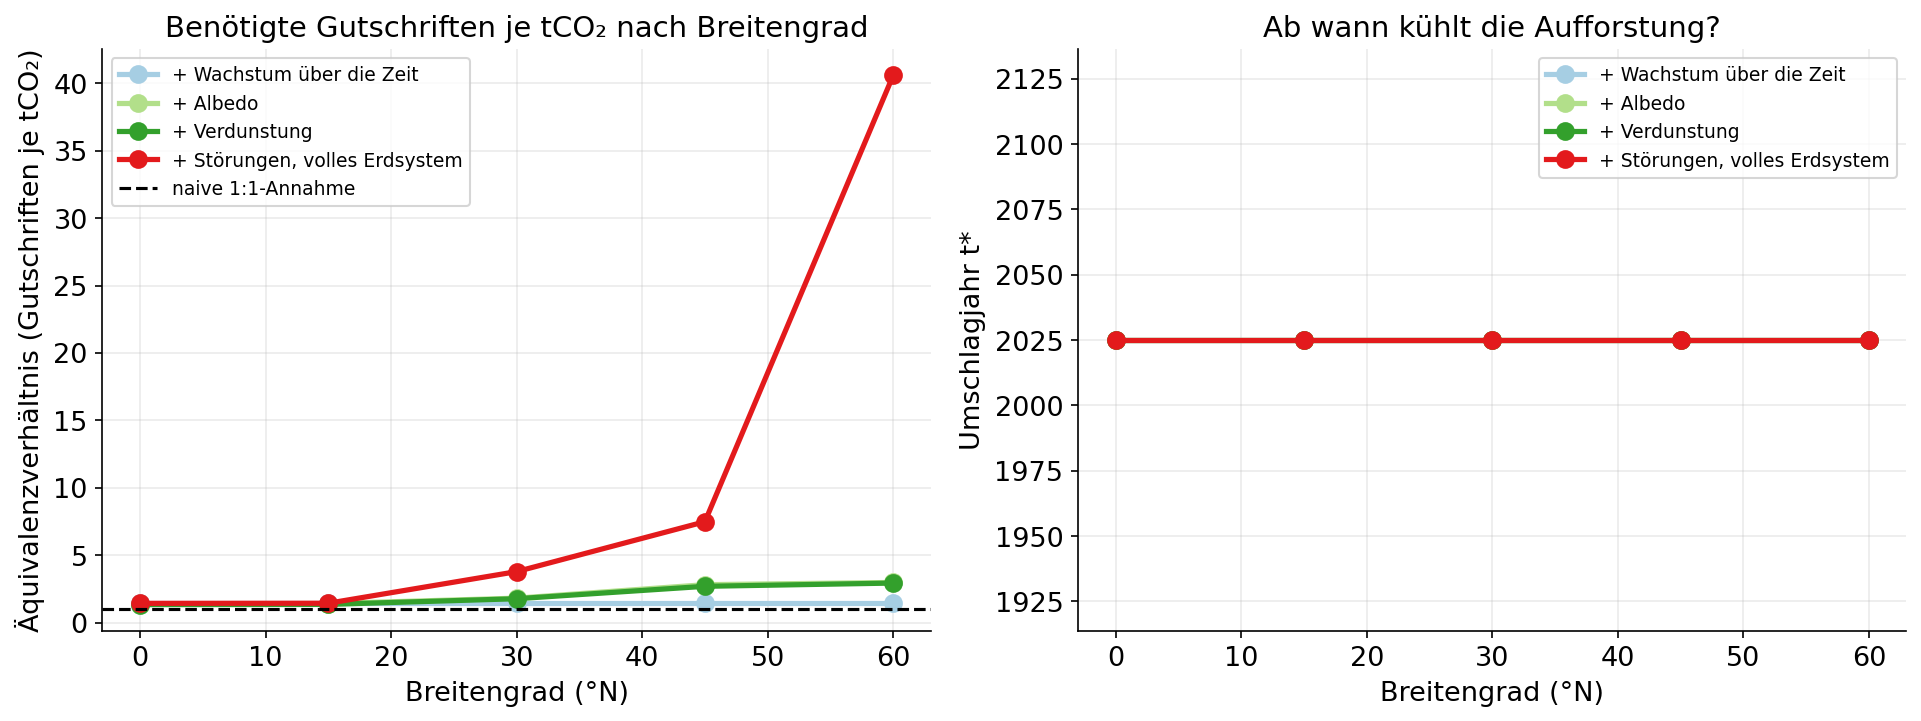
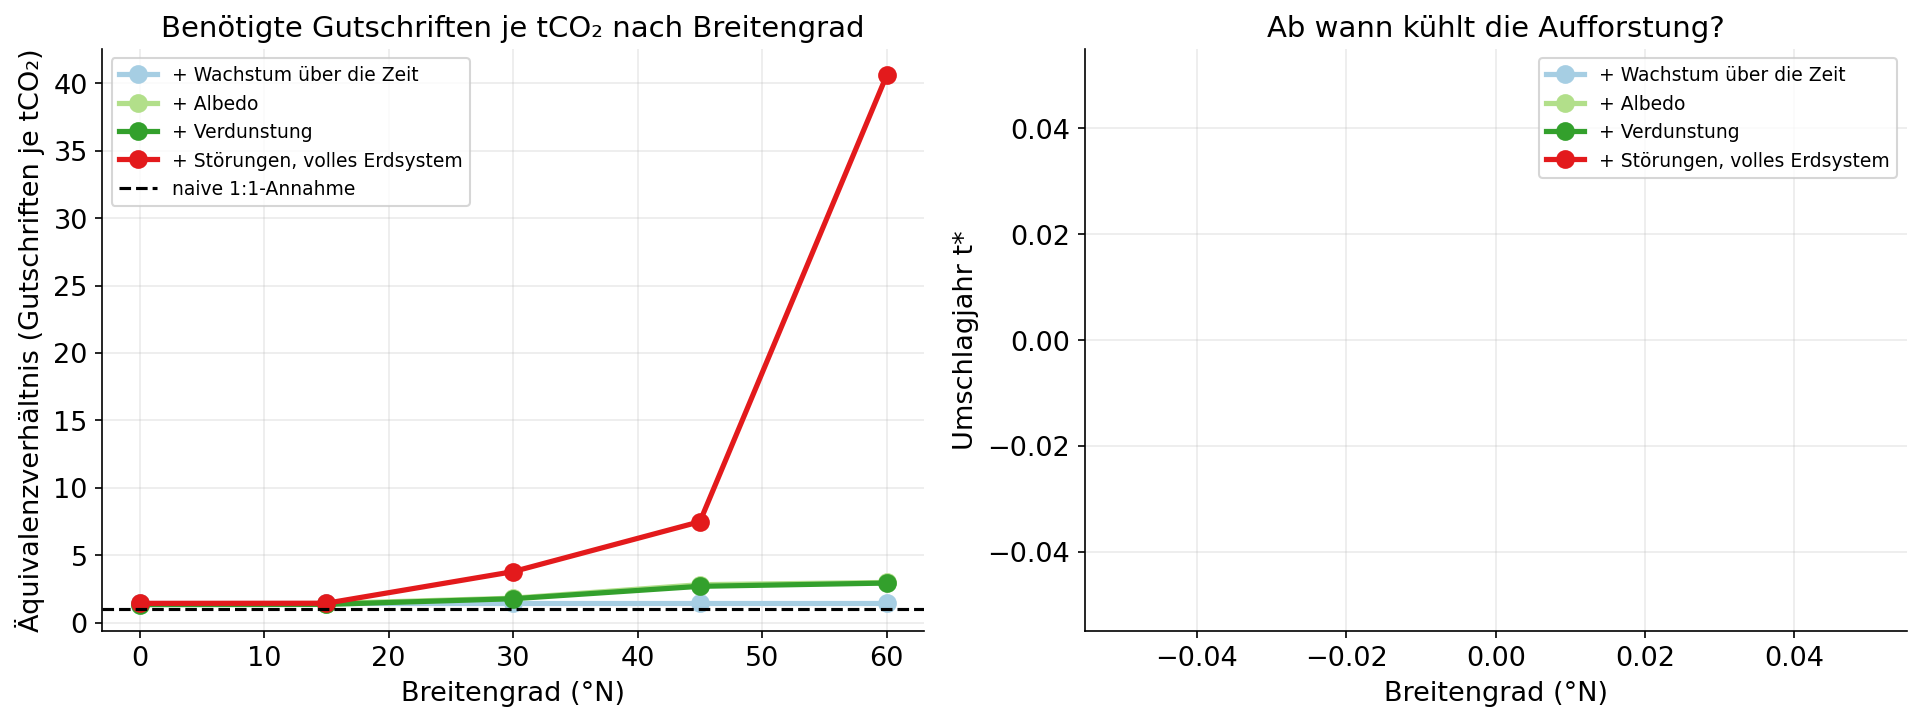
fix: repoint stale nbs.* imports to nbs.legacy.* in slide scripts and archived notebooks
generate_figures.py and generate_story_figures.py (plus two local imports
inside generate_story_figures.py's helper functions) still imported
parameters/carbon_module/albedo_module/et_module/credit_analysis from the
old nbs.* location; commit b034b1a moved these to nbs.legacy.*. Both
scripts now run to completion again. Also corrected the same stale
imports in the two archived notebooks under notebooks/archiv/ (import
cells only, not executed).

diff --git a/docs/slides/generate_story_figures.py b/docs/slides/generate_story_figures.py
@@ -11,9 +11,9 @@ import numpy as np
 from matplotlib.patches import FancyArrowPatch, FancyBboxPatch, Polygon
 
 sys.path.insert(0, os.path.join(os.path.dirname(__file__), "../../src"))
-from nbs.carbon_module import area_for_credit
-from nbs.credit_analysis import REISE, run_with
-from nbs.parameters import T_END, T_START
+from nbs.legacy.carbon_module import area_for_credit
+from nbs.legacy.credit_analysis import REISE, run_with
+from nbs.legacy.parameters import T_END, T_START
 
 OUT = os.path.join(os.path.dirname(__file__), "figures")
 
@@ -24,13 +24,13 @@ STAEMME_HA = 2000      # Setzlinge je Hektar, übliche Pflanzdichte
 
 def baeume_pro_flug(lat: int) -> float:
     """Wie viele Bäume die Zertifikatsrechnung für einen Flug bucht."""
-    from nbs.carbon_module import nominal_credit_gtco2
+    from nbs.legacy.carbon_module import nominal_credit_gtco2
     t_pro_ha = nominal_credit_gtco2(lat, 1.0) * 1e3
     return FLUG_TCO2 / t_pro_ha * STAEMME_HA
 
 
 def m2_pro_flug(lat: int) -> float:
-    from nbs.carbon_module import nominal_credit_gtco2
+    from nbs.legacy.carbon_module import nominal_credit_gtco2
     t_pro_ha = nominal_credit_gtco2(lat, 1.0) * 1e3
     return FLUG_TCO2 / t_pro_ha * 1e4
 YEARS = np.arange(T_START, T_END)

diff --git a/docs/slides/generate_figures.py b/docs/slides/generate_figures.py
@@ -8,12 +8,12 @@ import sys, os
 
 sys.path.insert(0, os.path.join(os.path.dirname(__file__), "../../src"))
 
-from nbs.parameters import T_START, T_END
-from nbs.carbon_module import compute_nee_at_level, compute_biomass_growth
-from nbs.albedo_module import compute_albedo_forcing_timeseries
-from nbs.et_module import compute_et_forcing_timeseries
+from nbs.legacy.parameters import T_START, T_END
+from nbs.legacy.carbon_module import compute_nee_at_level, compute_biomass_growth
+from nbs.legacy.albedo_module import compute_albedo_forcing_timeseries
+from nbs.legacy.et_module import compute_et_forcing_timeseries
 from nbs.fair_module import run_fair_baseline, compute_pulse_warming
-from nbs.credit_analysis import run_at_level, run_progressive_analysis
+from nbs.legacy.credit_analysis import run_at_level, run_progressive_analysis
 
 YEARS = np.arange(T_START, T_END)
 OUT = os.path.join(os.path.dirname(__file__), "figures")
